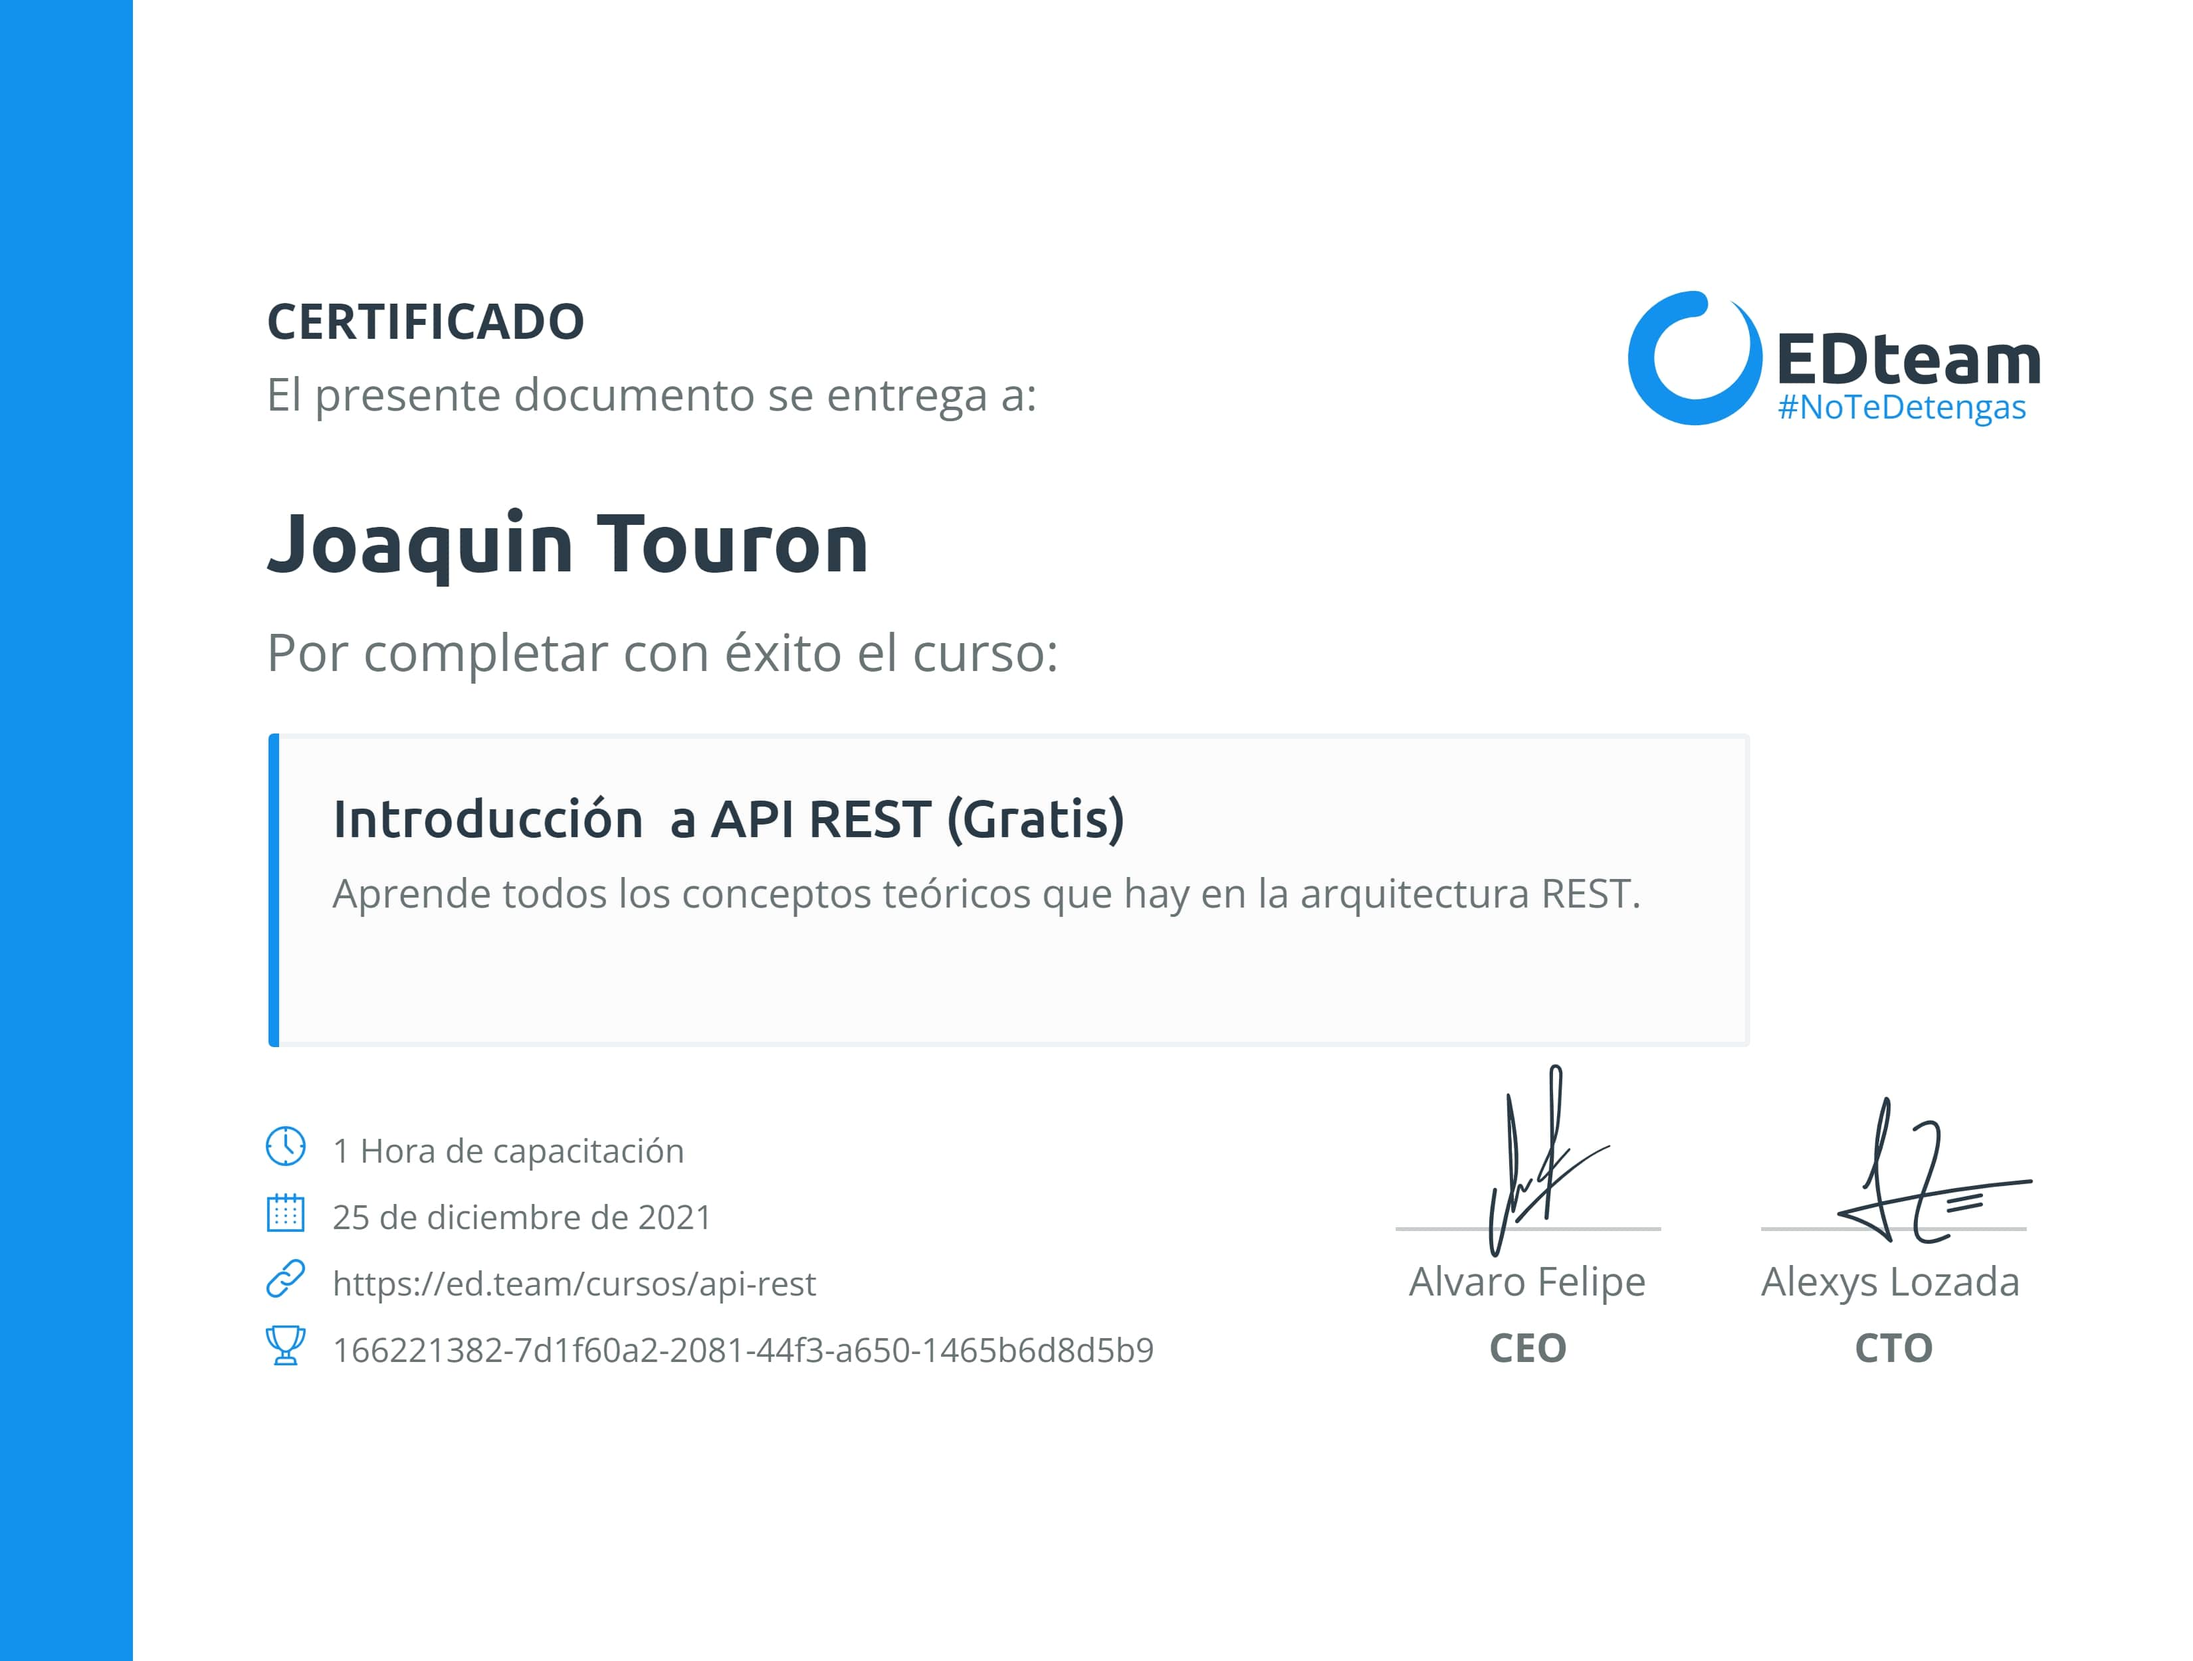
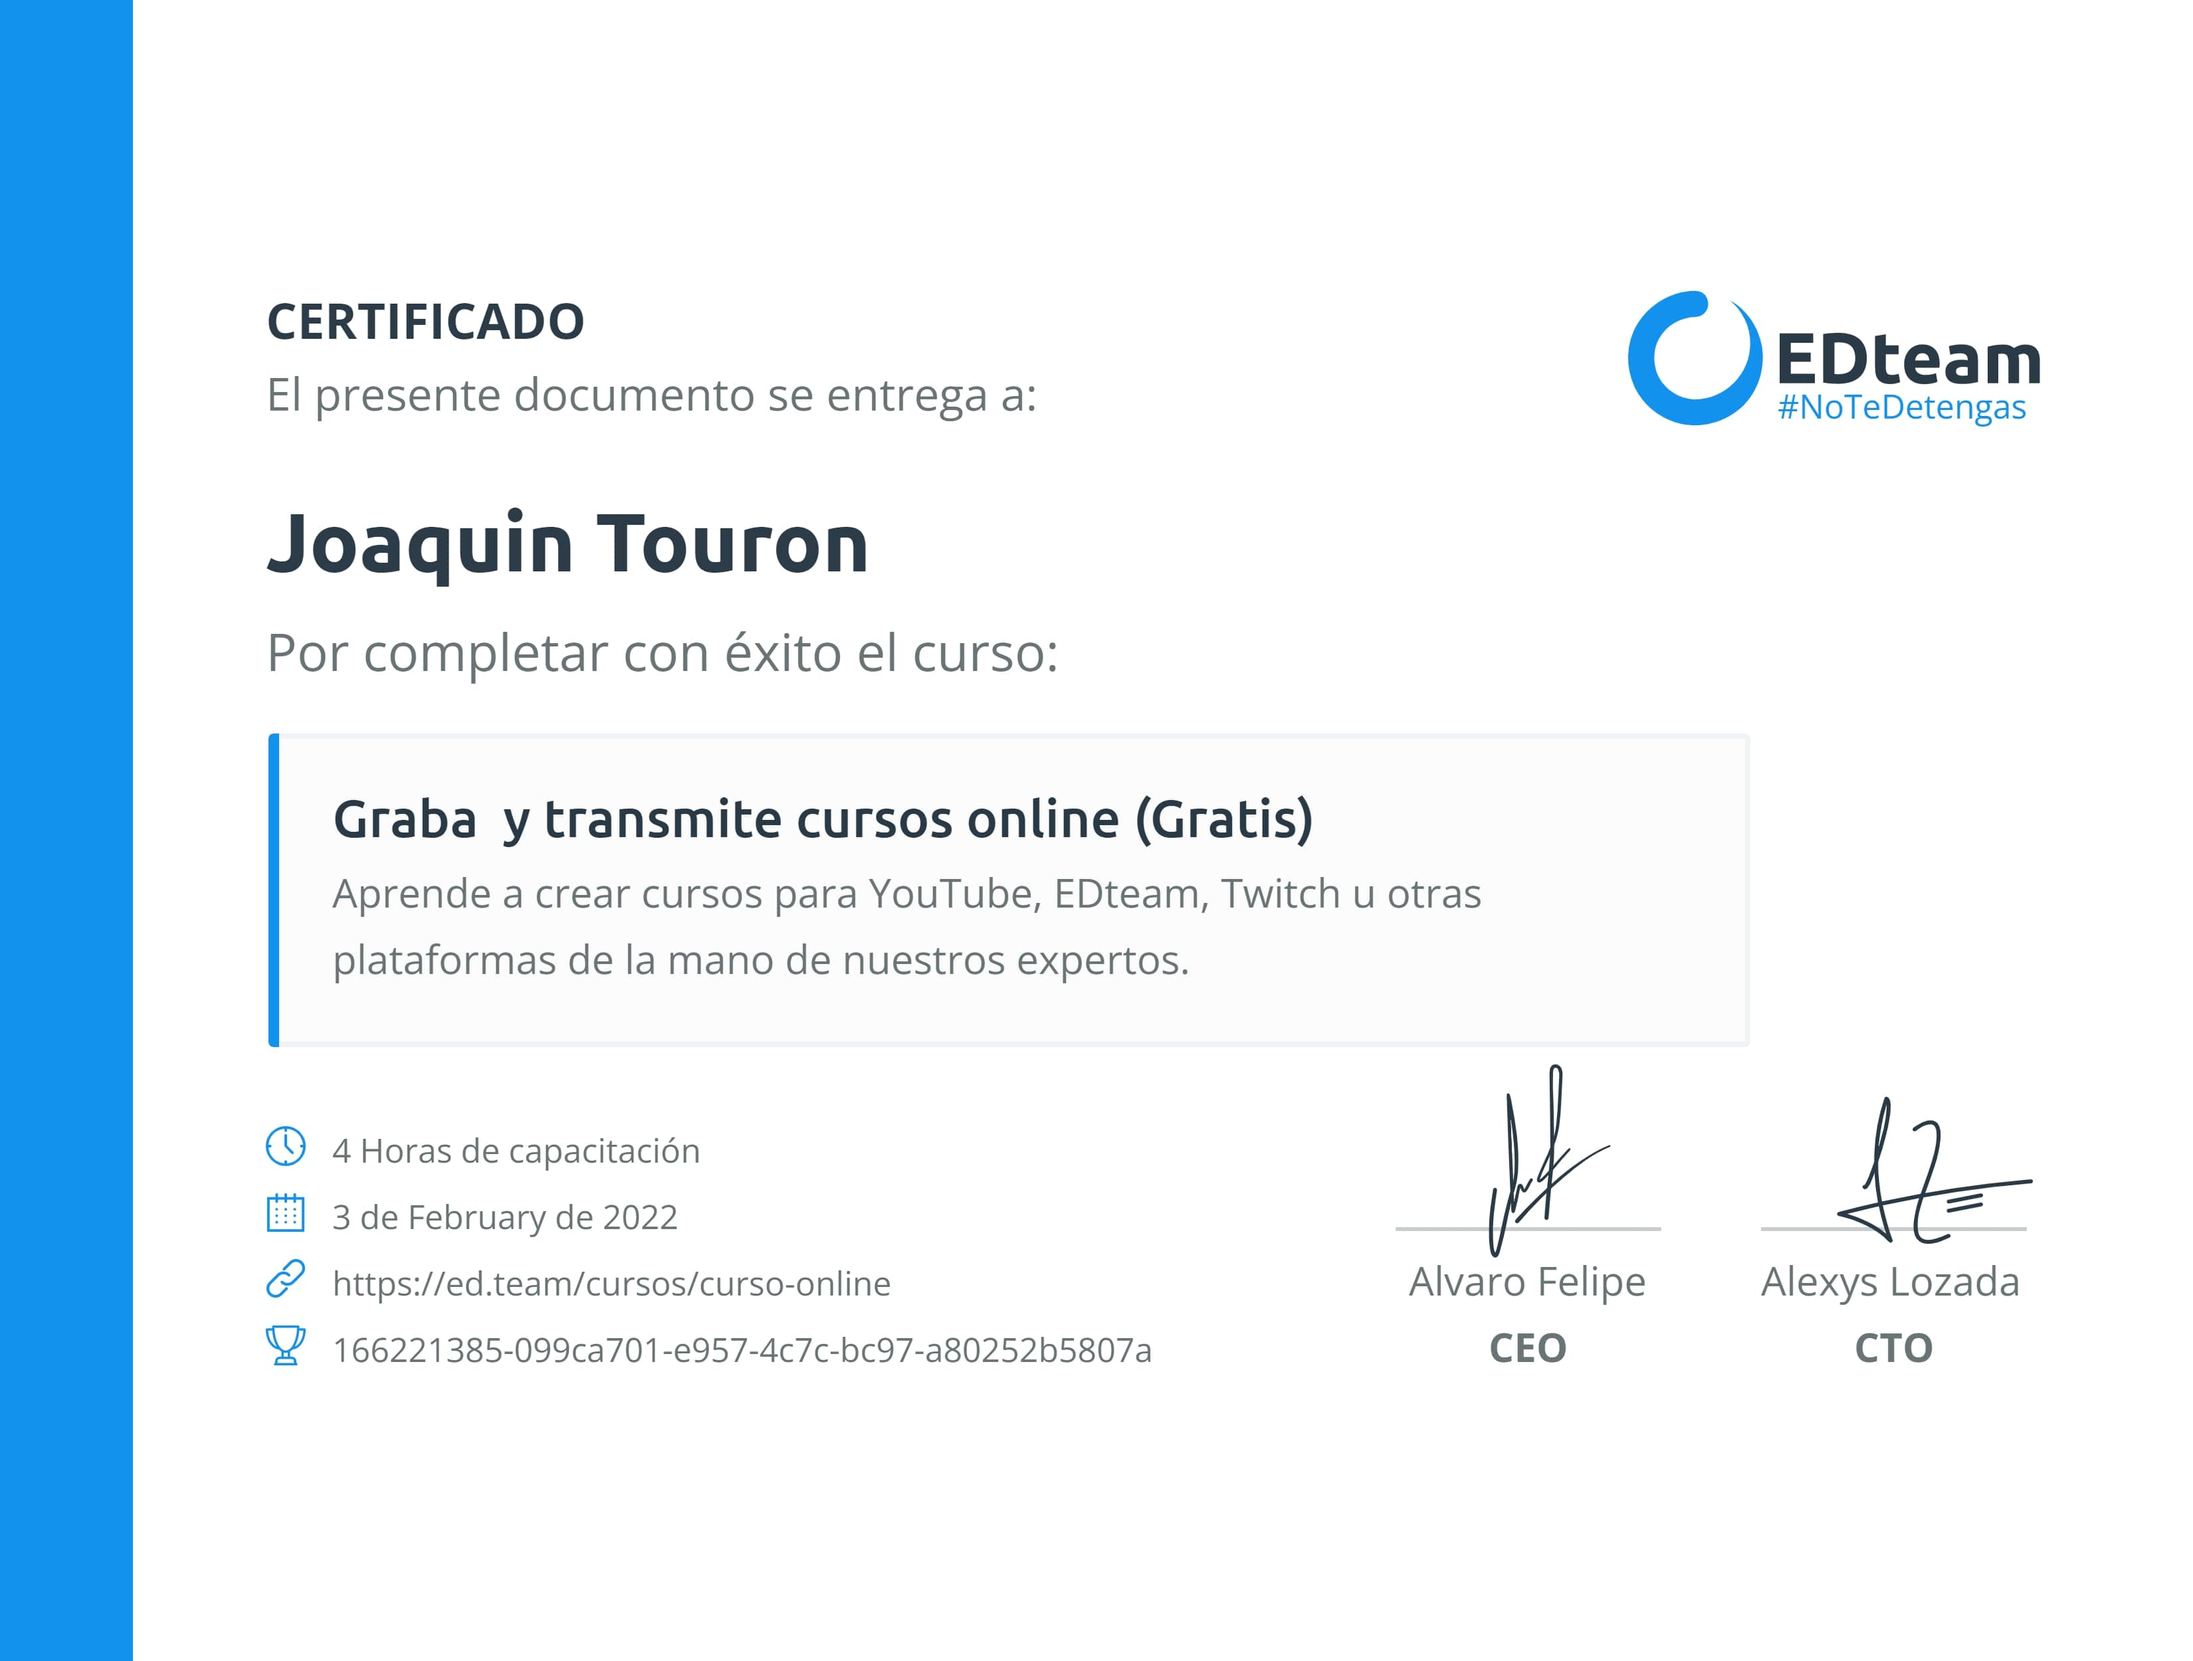
added record online courses certificate

diff --git a/js/script.js b/js/script.js
@@ -109,7 +109,7 @@ var image1 = document.getElementById("aboutImage1");
 var image2 = document.getElementById("aboutImage2");
 var image3 = document.getElementById("aboutImage3");
 var imageOrder = [image1, image2, image3];
-var totalImages = 33;
+var totalImages = 34;
 var currentImage = 3;
 
 const imageSlideshow = () => {
